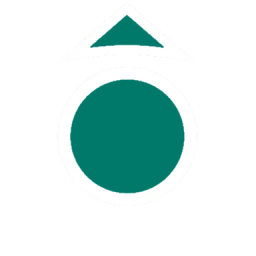
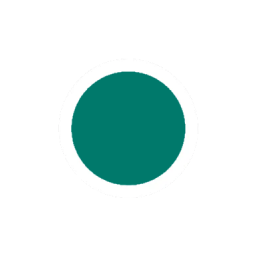
Removed bearing from user marker

Changed region(s): [[0.2812, 0.25, 0.75, 0.5312], [0.25, 0.4688, 0.7188, 0.7812], [0.3438, 0.0625, 0.6562, 0.1875]]

diff --git a/lib/ui/pages/tracker_page/widgets/user_marker.dart b/lib/ui/pages/tracker_page/widgets/user_marker.dart
@@ -3,21 +3,14 @@ import 'package:flutter/material.dart';
 import 'package:sahayatri/app/constants/resources.dart';
 
 class UserMarker extends StatelessWidget {
-  final double angle;
-
-  const UserMarker({
-    @required this.angle,
-  }) : assert(angle != null);
+  const UserMarker();
 
   @override
   Widget build(BuildContext context) {
-    return Transform.rotate(
-      angle: angle,
-      child: Image.asset(
-        Images.kUserMarker,
-        width: 24.0,
-        height: 24.0,
-      ),
+    return Image.asset(
+      Images.kUserMarker,
+      width: 24.0,
+      height: 24.0,
     );
   }
 }

diff --git a/lib/ui/shared/widgets/map/custom_map.dart b/lib/ui/shared/widgets/map/custom_map.dart
@@ -101,7 +101,7 @@ class CustomMap extends StatelessWidget {
   PolylineLayerOptions _buildRoute(BuildContext context) {
     final route = context.bloc<DestinationBloc>().destination.route;
     final userPath = route.take(userIndex).toList();
-    final remainingPath = route.getRange(userIndex + 1, route.length).toList();
+    final remainingPath = route.getRange(userIndex - 1, route.length).toList();
 
     return PolylineLayerOptions(
       polylines: [

diff --git a/lib/ui/pages/tracker_page/widgets/tracker_map.dart b/lib/ui/pages/tracker_page/widgets/tracker_map.dart
@@ -93,9 +93,7 @@ class _TrackerMapState extends State<TrackerMap> with SingleTickerProviderStateM
           width: 24.0,
           height: 24.0,
           point: center.toLatLng(),
-          builder: (context) => UserMarker(
-            angle: trackerUpdate.userLocation.bearing,
-          ),
+          builder: (context) => const UserMarker(),
         ),
       ],
     );
